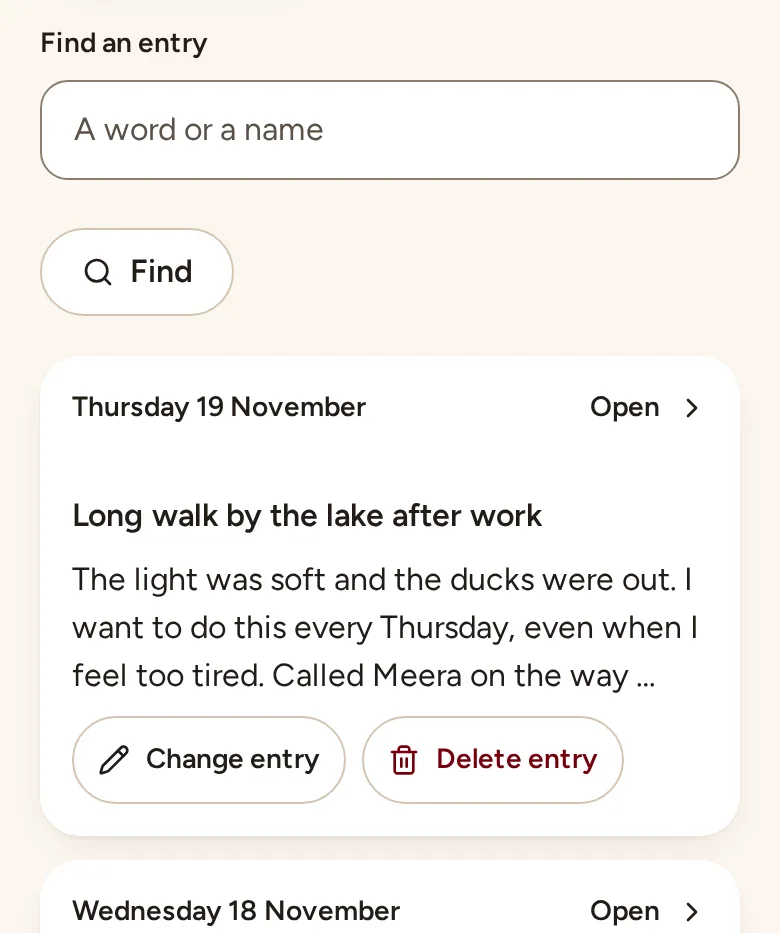
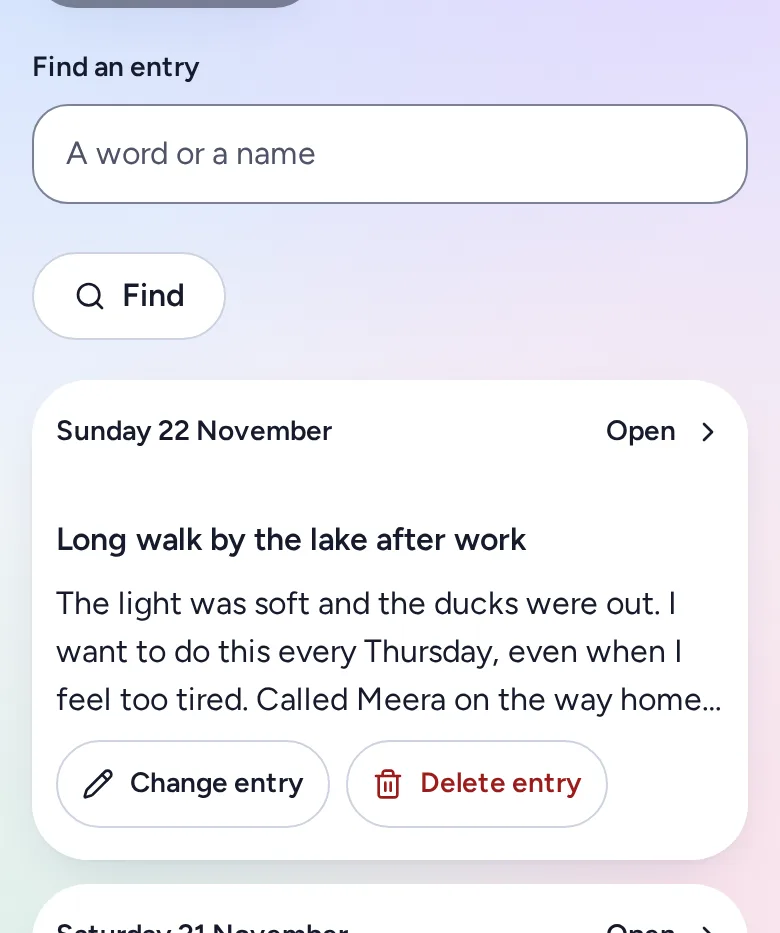
Retake the landing page and pitch screenshots from the pastel app, add the Home shot, and describe the new chat picture on the pitch site

diff --git a/apps/pitch/src/components/deck.tsx b/apps/pitch/src/components/deck.tsx
@@ -48,7 +48,7 @@ export function DeckHero() {
               src="/shots/chat-light.webp"
               width={780}
               height={767}
-              alt="The Daksha app. A person asks what they planted on the balcony. Daksha answers: basil and mint, with a source chip that reads Journal, 11 November."
+              alt="The Daksha chat before you ask anything. Daksha says: Hi, I'm Daksha. I keep your journal and remember what is in it, and I will show you which entry each answer came from. Below are three suggestions: What did I do last week?, Write in my journal and See what Daksha knows."
               isPriority
             />
           </VStack>
@@ -121,10 +121,10 @@ export function Solution() {
 }
 
 const SHOTS = [
-  { src: "/shots/journal-light.webp", w: 780, h: 933, title: "Journal", alt: "The Daksha journal. A box to find an entry, then entries from 19 and 18 November, each with the buttons Change entry and Delete entry.", text: "Write or record. Edit and delete any entry." },
-  { src: "/shots/chat-light.webp", w: 780, h: 767, title: "Ask", alt: "The Daksha chat. A person asks what they planted on the balcony and Daksha answers with a source chip.", text: "Answers with a chip for every source." },
-  { src: "/shots/knows-light.webp", w: 780, h: 1067, title: "What Daksha knows", alt: "The What Daksha knows page. Each memory shows its source chip, like Journal, 19 November, and the buttons Fix this and Forget this.", text: "Every memory, with fix and forget." },
-  { src: "/shots/talk-light.webp", w: 780, h: 833, title: "Talk", alt: "The Talk screen in Daksha. Above Daksha's face, a card waiting for your yes: Create Coffee with Jamie, Daksha will change your calendar, with the buttons Approve and Not now.", text: "Talk, and say yes before anything changes." },
+  { src: "/shots/journal-light.webp", w: 780, h: 933, title: "Journal", alt: "The Daksha journal. A box to find an entry, then the entry Long walk by the lake after work from 22 November, with the buttons Change entry and Delete entry.", text: "Write or record. Edit and delete any entry." },
+  { src: "/shots/chat-light.webp", w: 780, h: 767, title: "Ask", alt: "The Daksha chat before you ask anything: Hi, I'm Daksha, with three suggestions to start.", text: "Ask in plain words. Answers show their sources." },
+  { src: "/shots/knows-light.webp", w: 780, h: 1067, title: "What Daksha knows", alt: "The What Daksha knows page. Each memory shows its source chip, like Journal, 22 November, and the buttons Fix this and Forget this.", text: "Every memory, with fix and forget." },
+  { src: "/shots/talk-light.webp", w: 780, h: 833, title: "Talk", alt: "The Talk screen in Daksha. Above Daksha's face, a card waiting for your yes: Create Coffee with Jamie, Daksha will change your calendar in alex@example.com, with the buttons Approve and Not now.", text: "Talk, and say yes before anything changes." },
   { src: "/shots/apps-light.webp", w: 780, h: 1067, title: "Apps", alt: "The Apps screen in Daksha. Gmail and Google Calendar show example data, and Daksha's computer is not connected yet.", text: "Connect apps one at a time." },
 ];
 
